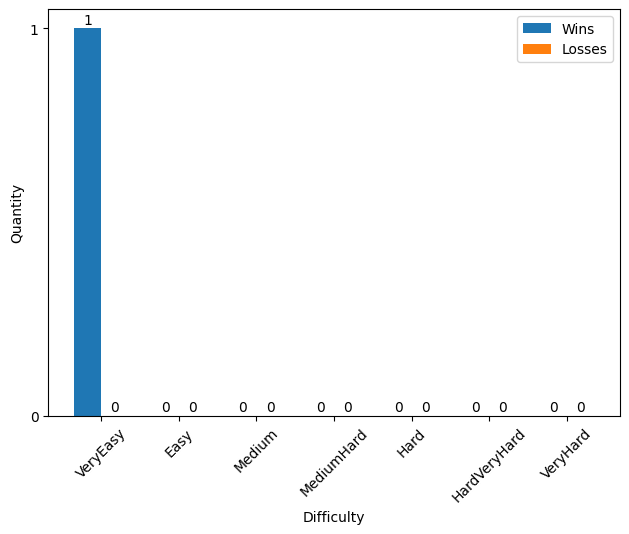
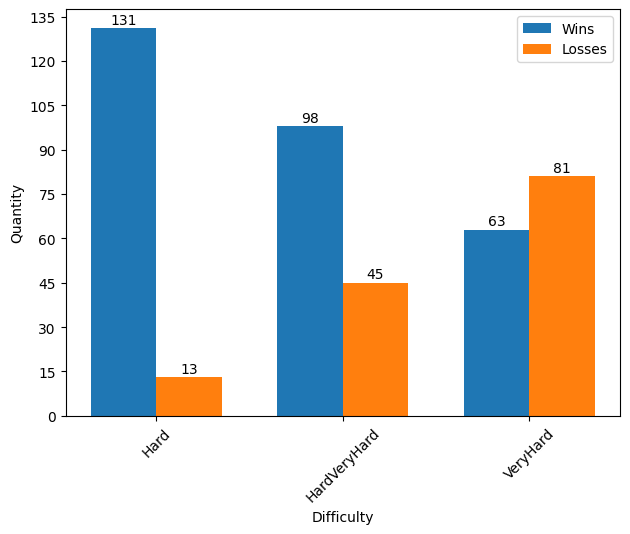
updates

diff --git a/scripts/getStats.py b/scripts/getStats.py
@@ -7,10 +7,9 @@
 # ./getStats.py
 
 import subprocess
-# commented out libraries for group testing
-# import matplotlib.pyplot as plt
-# from matplotlib.ticker import MaxNLocator
-# import numpy as np
+import matplotlib.pyplot as plt
+from matplotlib.ticker import MaxNLocator
+import numpy as np
 
 # all possible settings
 MAPS = ["CactusValleyLE.SC2Map", "BelShirVestigeLE.SC2Map", "ProximaStationLE.SC2Map"]
@@ -77,7 +76,10 @@ def getSpecificResults():
 
     # array of specific runs you want to run
     runs = [
-        [ "VeryEasy", "zerg",  "BelShirVestigeLE.SC2Map"]
+        ["VeryHard", "protoss", "BelShirVestigeLE.SC2Map"],
+        ["VeryHard",  "terran", "BelShirVestigeLE.SC2Map"],
+        ['VeryHard', "zerg", "ProximaStationLE.SC2Map"],
+        ["HardVeryHard", "terran", "ProximaStationLE.SC2Map"]
     ]
 
     # run desired simulations only
@@ -119,6 +121,7 @@ def parseOutput(stdout):
     print(f"Result = {result}")
     return result
 
+# generate graphs
 def getGraphs(glob, race, map, difficulty, bad_results):
 
     # print to stdout
@@ -152,76 +155,60 @@ def getGraphs(glob, race, map, difficulty, bad_results):
     file.write('\n')
     file.close() 
 
-    # commented out for group testing, will uncomment later
-    # # prepare data
-    # for key in map:
-    #     map[key.replace('.SC2Map', '')] = map.pop(key)
+    #commented out for group testing, will uncomment later
+    # prepare data
+    for key in map:
+        map[key.replace('.SC2Map', '')] = map.pop(key)
 
-    # categorical_results = {"Race": race, "Map":map, "Difficulty": difficulty}
+    categorical_results = {"Race": race, "Map":map, "Difficulty": difficulty}
 
-    # for name, results in categorical_results.items():
+    for name, results in categorical_results.items():
     
-    #     categories = list(results.keys())
-    #     wins = []
-    #     losses = []
-    #     for category in categories:
-    #         wins.append(results[category]['Win'])
-    #         losses.append(results[category]['Loss'])
+        categories = list(results.keys())
+        wins = []
+        losses = []
+        for category in categories:
+            wins.append(results[category]['Win'])
+            losses.append(results[category]['Loss'])
         
-    #     # the label locations
-    #     x = np.arange(len(categories))  
+        # the label locations
+        x = np.arange(len(categories))  
         
-    #     # the width of the bars
-    #     width = 0.35  
+        # the width of the bars
+        width = 0.35  
 
-    #     # clear plot
-    #     plt.clf()
-    #     fig, ax = plt.subplots()
-    #     rects1 = ax.bar(x - width/2, wins, width, label='Wins')
-    #     rects2 = ax.bar(x + width/2, losses, width, label='Losses')
+        # clear plot
+        plt.clf()
+        fig, ax = plt.subplots()
+        rects1 = ax.bar(x - width/2, wins, width, label='Wins')
+        rects2 = ax.bar(x + width/2, losses, width, label='Losses')
 
-    #     # Add some text for labels, title and custom x-axis tick labels, etc.
-    #     ax.set_ylabel('Quantity')
-    #     ax.set_xlabel(name)
-    #     ax.legend(loc='upper right')
-    #     ax.set_xticks(x, categories)
+        # Add some text for labels, title and custom x-axis tick labels, etc.
+        ax.set_ylabel('Quantity')
+        ax.set_xlabel(name)
+        ax.legend(loc='upper right')
+        ax.set_xticks(x, categories)
 
-    #     ax.bar_label(rects1, padding=1)
-    #     ax.bar_label(rects2, padding=1)
-    #     ax.yaxis.set_major_locator(MaxNLocator(integer=True))
+        ax.bar_label(rects1, padding=1)
+        ax.bar_label(rects2, padding=1)
+        ax.yaxis.set_major_locator(MaxNLocator(integer=True))
 
-    #     fig.tight_layout()
+        fig.tight_layout()
         
-    #     if name == "Difficulty":
-    #         plt.xticks(rotation=45)
+        if name == "Difficulty":
+            plt.xticks(rotation=45)
 
-    #     plt.savefig(f'output/{name}.png', bbox_inches='tight')
+        plt.savefig(f'output/{name}.png', bbox_inches='tight')
 
 def generateGraphs():
     #current results
-    glob = {'Win': 57, 'Loss': 6, 'Tie': 0, 'Undecided': 0}
+    glob = {'Win': 292, 'Loss': 139, 'Tie': 1, 'Undecided': 0}
 
-    race = {
-        'zerg': {'Win': 18, 'Loss': 3, 'Tie': 0, 'Undecided': 0}, 
-        'protoss': {'Win': 19, 'Loss': 2, 'Tie': 0, 'Undecided': 0}, 
-        'terran': {'Win': 20, 'Loss': 1, 'Tie': 0, 'Undecided': 0}
-    }
+    race = {'zerg': {'Win': 87, 'Loss': 57, 'Tie': 0, 'Undecided': 0}, 'protoss': {'Win': 98, 'Loss': 46, 'Tie': 0, 'Undecided': 0}, 'terran': {'Win': 107, 'Loss': 36, 'Tie': 1, 'Undecided': 0}}
 
-    map = {
-        'CactusValleyLE.SC2Map': {'Win': 19, 'Loss': 2, 'Tie': 0, 'Undecided': 0}, 
-        'BelShirVestigeLE.SC2Map': {'Win': 20, 'Loss': 1, 'Tie': 0, 'Undecided': 0}, 
-        'ProximaStationLE.SC2Map': {'Win': 18, 'Loss': 3, 'Tie': 0, 'Undecided': 0}
-    }
+    map = {'CactusValleyLE.SC2Map': {'Win': 93, 'Loss': 51, 'Tie': 0, 'Undecided': 0}, 'BelShirVestigeLE.SC2Map': {'Win': 115, 'Loss': 28, 'Tie': 1, 'Undecided': 0}, 'ProximaStationLE.SC2Map': {'Win': 84, 'Loss': 60, 'Tie': 0, 'Undecided': 0}} 
 
-    difficulty = {
-        'VeryEasy': {'Win': 9, 'Loss': 0, 'Tie': 0, 'Undecided': 0}, 
-        'Easy': {'Win': 9, 'Loss': 0, 'Tie': 0, 'Undecided': 0}, 
-        'Medium': {'Win': 9, 'Loss': 0, 'Tie': 0, 'Undecided': 0}, 
-        'MediumHard': {'Win': 9, 'Loss': 0, 'Tie': 0, 'Undecided': 0}, 
-        'Hard': {'Win': 8, 'Loss': 1, 'Tie': 0, 'Undecided': 0}, 
-        'HardVeryHard': {'Win': 8, 'Loss': 1, 'Tie': 0, 'Undecided': 0}, 
-        'VeryHard': {'Win': 5, 'Loss': 4, 'Tie': 0, 'Undecided': 0}
-    }
+    difficulty = {'Hard': {'Win': 131, 'Loss': 13, 'Tie': 0, 'Undecided': 0}, 'HardVeryHard': {'Win': 98, 'Loss': 45, 'Tie': 1, 'Undecided': 0}, 'VeryHard': {'Win': 63, 'Loss': 81, 'Tie': 0, 'Undecided': 0}}
 
     getGraphs(glob, race, map, difficulty, [])
     
@@ -230,18 +217,7 @@ if __name__ == "__main__":
     for difficulty in DIFFICULTIES:
         difficulty_results[difficulty] = {"Win":0, "Loss":0, "Tie":0, "Undecided":0}
 
-    # NOTES
-    # different functions you can run 
-    # to make sure things are working properly, run testRun() and then generateGraph() to make sure no errors are thrown
-    runSimulations()
+    # runSimulations()
     # testRun()
     # generateGraphs()
     # getSpecificResults()
-
-
-# TODO
-# - run all combinations (all difficulties, all maps, all enemy races)
-# have log which indicates who won
-# parse output to determine who won
-# determine what the stats will be tweaking
-# have CLI arguments for these things

diff --git a/scripts/aggregate.py b/scripts/aggregate.py
@@ -1,11 +1,11 @@
 #! /usr/bin/env python3
-
-
 # all possible settings
+
 MAPS = ["CactusValleyLE.SC2Map", "BelShirVestigeLE.SC2Map", "ProximaStationLE.SC2Map"]
 RACES = ["zerg" , "protoss", "terran"]
 DIFFICULTIES = ["Hard", "HardVeryHard", "VeryHard"]
 
+# initialize results
 def setup():
 
     # global results hash
@@ -35,8 +35,37 @@ def setup():
     
     return global_results, race_results, map_results, difficulty_results, bad_results
 
+# want to combine these results with other results
+def setup2():
+
+    global_results = {'Win': 91, 'Loss': 43, 'Tie': 1, 'Undecided': 0}
+
+    race_results = {
+                        'zerg': {'Win': 28, 'Loss': 17, 'Tie': 0, 'Undecided': 0}, 
+                        'protoss': {'Win': 28, 'Loss': 17, 'Tie': 0, 'Undecided': 0}, 
+                        'terran': {'Win': 35, 'Loss': 9, 'Tie': 1, 'Undecided': 0}
+                    }
+
+    map_results = {
+                    'CactusValleyLE.SC2Map': {'Win': 29, 'Loss': 16, 'Tie': 0, 'Undecided': 0}, 
+                    'BelShirVestigeLE.SC2Map': {'Win': 36, 'Loss': 8, 'Tie': 1, 'Undecided': 0}, 
+                    'ProximaStationLE.SC2Map': {'Win': 26, 'Loss': 19, 'Tie': 0, 'Undecided': 0}
+                    }
+
+    difficulty_results = {
+                            'Hard': {'Win': 41, 'Loss': 4, 'Tie': 0, 'Undecided': 0}, 
+                            'HardVeryHard': {'Win': 32, 'Loss': 12, 'Tie': 1, 'Undecided': 0}, 
+                            'VeryHard': {'Win': 18, 'Loss': 27, 'Tie': 0, 'Undecided': 0}
+                            }
+
+    bad_results = []
+    
+    return global_results, race_results, map_results, difficulty_results, bad_results
+
+# create the dictionaries 
 def createDicts(file_name):
 
+    # initialize settings
     global_results, race_results, map_results, difficulty_results, bad_results = setup()
 
     infile = open(file_name, 'r')
@@ -50,7 +79,7 @@ def createDicts(file_name):
             setting = lines[i].strip()
             index = setting.find(':')
             setting = setting[index:].split()
-            difficulty, race, map = setting[1], setting[2], setting[-1]
+            difficulty, race, map = setting[-4], setting[-3], setting[-1]
 
             # extract result
             result = lines[i+1].strip()
@@ -58,7 +87,7 @@ def createDicts(file_name):
             result = result[index+2:]
 
             # update results
-            if result != 'None':
+            if result != 'None':# and difficulty == 'Hard':
                 global_results[result] += 1
                 race_results[race][result] += 1
                 map_results[map][result] += 1
@@ -66,34 +95,58 @@ def createDicts(file_name):
             else:
                 bad_results.append(f"RESULT WAS NONE ({difficulty} {race} on {map})")
         i += 1
-    
-    # print to stdout
-    print('global results')
-    print(global_results)
-    print('race results')
-    print(race_results)
-    print('map results')
-    print(map_results)
-    print('difficulty results')
-    print(difficulty_results)
-    print('bad results')
-    print(bad_results)
- 
-    
 
+    return global_results, race_results, map_results, difficulty_results, bad_results
+ 
 def aggregateDicts():
 
-    glob = {'Win': 91, 'Loss': 40, 'Tie': 0, 'Undecided': 0}
+    global_results, race_results, map_results, difficulty_results, bad_results = setup2()
 
-    race = {'zerg': {'Win': 27, 'Loss': 17, 'Tie': 0, 'Undecided': 0}, 'protoss': {'Win': 33, 'Loss': 11, 'Tie': 0, 'Undecided': 0}, 'terran': {'Win': 31, 'Loss': 12, 'Tie': 0, 'Undecided': 0}}
+    file_names = ["files/evan2.txt", "files/sarthak.txt", "files/evan.txt"]
 
-    map = {'CactusValleyLE.SC2Map': {'Win': 27, 'Loss': 18, 'Tie': 0, 'Undecided': 0}, 'BelShirVestigeLE.SC2Map': {'Win': 36, 'Loss': 7, 'Tie': 0, 'Undecided': 0}, 'ProximaStationLE.SC2Map': {'Win': 28, 'Loss': 15, 'Tie': 0, 'Undecided': 0}}
+    for name in file_names:
+        # get other dicts
+        current_global, current_race, current_map, current_difficulty, current_bad = createDicts(name)
+        
+        if len(current_bad) != 0:
+            print("error 1")
+            return 1
 
-    difficulty = {'Hard': {'Win': 42, 'Loss': 3, 'Tie': 0, 'Undecided': 0}, 'HardVeryHard': {'Win': 28, 'Loss': 16, 'Tie': 0, 'Undecided': 0}, 'VeryHard': {'Win': 21, 'Loss': 21, 'Tie': 0, 'Undecided': 0}}
+        total_sims = 0
+        
+        # combine global values
+        for key in global_results:
+            global_results[key] += current_global[key]
+            total_sims += current_global[key]
 
+        if total_sims%27 != 0:
+            print("error 2")
+            print(name)
+            print(current_global)
+            return 1
+        
 
-
+        # combine race values
+        for parent_key in race_results:
+            for child_key in race_results[parent_key]:
+                race_results[parent_key][child_key] += current_race[parent_key][child_key]
+        
+        # combine map values
+        for parent_key in map_results:
+            for child_key in map_results[parent_key]:
+                map_results[parent_key][child_key] += current_map[parent_key][child_key]
+        
+        # combine difficulty keys
+        for parent_key in difficulty_results:
+            for child_key in difficulty_results[parent_key]:
+                difficulty_results[parent_key][child_key] += current_difficulty[parent_key][child_key]
+    
+    print(global_results)
+    print(race_results)
+    print(map_results)
+    print(difficulty_results)
+    return global_results, race_results, map_results, difficulty_results
 
 
 if __name__ == "__main__":
-    createDicts("files/stdout.txt")
+    aggregateDicts()

diff --git a/scripts/stddeviation.py b/scripts/stddeviation.py
@@ -7,27 +7,26 @@ def standard_deviation():
     # get all win loss values
     values = []
 
-    # 57 wins
-    for i in range(5):
+    # number of wins
+    for i in range(63):
         values.append(1)
     
-    # 6 losses
-    for i in range(4):
-        values.append(0)
+    # number of losses
+    for i in range(81):
+        values.append(0)  
     
     # numerator
     total = 0
 
     # mean
-    mean = 5/9
+    mean = 63/144
 
     # sum up numerator of standard deviation equation
     for val in values:
         total += (val-mean)**2
 
     # get standard deviation
-    return math.sqrt(total/8)
-
+    return math.sqrt(total/144)
 
 if __name__ == '__main__':
     print(standard_deviation())
